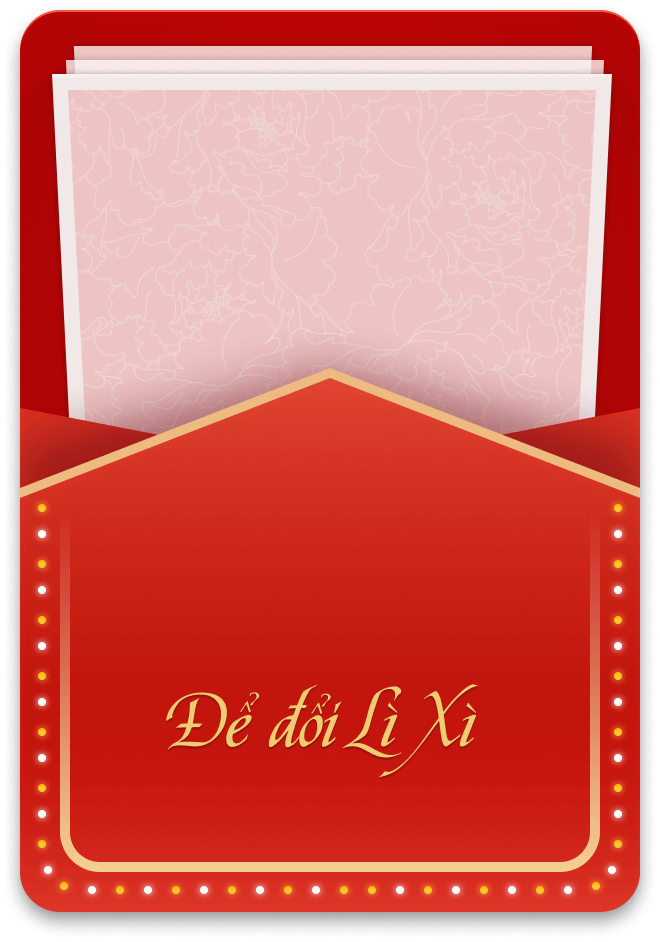
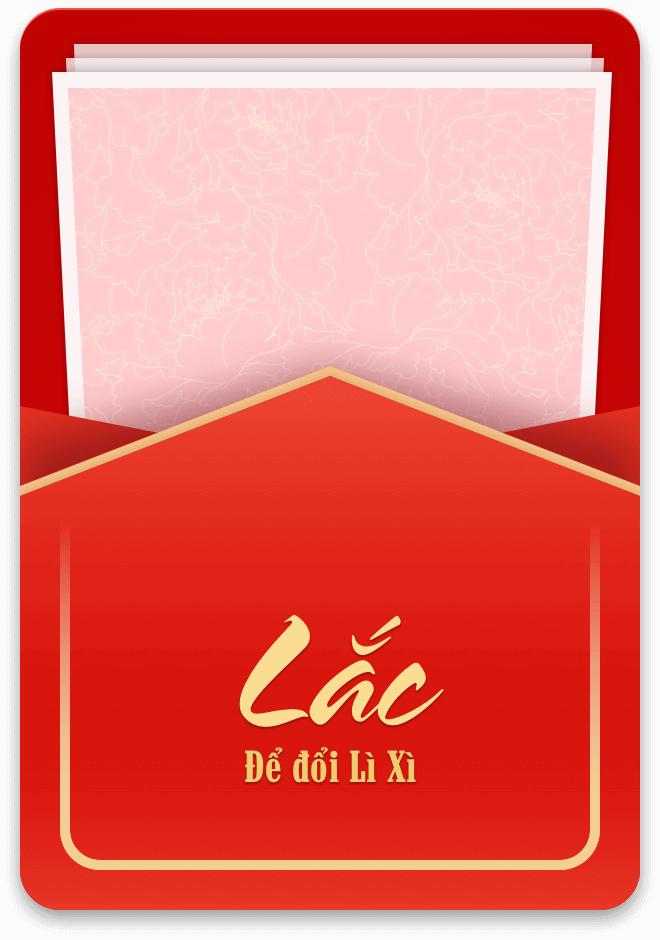
fix img

diff --git a/src/lixi.js b/src/lixi.js
@@ -44,12 +44,13 @@ class App extends Component {
                 <div className="bg fixed"></div>
 
                 <div className="hoatop fixed shake">
-                    <OwlCarousel options={options}>
+                    <div> <img  src={require('./image/hoamai.png')} /></div>
+                    {/* <OwlCarousel options={options}>
                         <div> <img  src={require('./image/hoamai.png')} /></div>
                         <div> <img  src={require('./image/hoadao.png')} /></div>
                         <div> <img  src={require('./image/hoamai.png')} /></div>
                         <div> <img  src={require('./image/hoadao.png')} /></div>
-                    </OwlCarousel>
+                    </OwlCarousel> */}
                 </div>
 
                 <div className="canhhoa fixed">
@@ -57,39 +58,39 @@ class App extends Component {
                         <div>
                             <div className="snowflakes">
                                 <div className="snowflake">
-                                    <div> <img  src={require('./image/hoadao1.png')} /></div>
+                                    <div> <img  src={require('./image/hoamai1.png')} /></div>
                                 </div>
                                 <div className="snowflake">
-                                    <div> <img  src={require('./image/hoadao2.png')} /></div>
+                                    <div> <img  src={require('./image/hoamai1.png')} /></div>
                                 </div>
                                 <div className="snowflake">
-                                    <div> <img  src={require('./image/hoadao3.png')} /></div>
+                                    <div> <img  src={require('./image/hoamai1.png')} /></div>
                                 </div>
                                 <div className="snowflake">
-                                    <div> <img  src={require('./image/hoadao1.png')} /></div>
+                                    <div> <img  src={require('./image/hoamai1.png')} /></div>
                                 </div>
                                 <div className="snowflake">
-                                    <div> <img  src={require('./image/hoadao2.png')} /></div>
+                                    <div> <img  src={require('./image/hoamai1.png')} /></div>
                                 </div>
                                 <div className="snowflake">
-                                    <div> <img  src={require('./image/hoadao3.png')} /></div>
+                                    <div> <img  src={require('./image/hoamai1.png')} /></div>
                                 </div>
                                 <div className="snowflake">
-                                    <div> <img  src={require('./image/hoadao1.png')} /></div>
+                                    <div> <img  src={require('./image/hoamai1.png')} /></div>
                                 </div>
                                 <div className="snowflake">
-                                    <div> <img  src={require('./image/hoadao2.png')} /></div>
+                                    <div> <img  src={require('./image/hoamai1.png')} /></div>
                                 </div>
                                 <div className="snowflake">
-                                    <div> <img  src={require('./image/hoadao3.png')} /></div>
+                                    <div> <img  src={require('./image/hoamai1.png')} /></div>
                                 </div>
                                 <div className="snowflake">
-                                    <div> <img  src={require('./image/hoadao1.png')} /></div>
+                                    <div> <img  src={require('./image/hoamai1.png')} /></div>
                                 </div>
                             </div>
                         </div>
 
-                        <div>
+                        {/* <div>
                             <div className="snowflakes">
                                 <div className="snowflake">
                                     <div> <img  src={require('./image/hoadao1.png')} /></div>
@@ -122,7 +123,7 @@ class App extends Component {
                                     <div> <img  src={require('./image/hoadao1.png')} /></div>
                                 </div>
                             </div>
-                        </div>
+                        </div> */}
 
                     </OwlCarousel>
                 </div>
@@ -172,17 +173,17 @@ class App extends Component {
                         <div className="txt_lixi">
                             <p className="fade">- Bạn nhận được lì xì -</p>
                             <p className="show fade in">
-                            TA79 vừa đổi Lì Xì với bạn <br/> và Lì Xì mới của bạn là
+                             Nguyễn Văn Hải vừa đổi Lì Xì 300.000đ lấy 200.000đ với bạn.<br/>Lì Xì mới của bạn là
                             </p>
                             <div className="menhgia_lixi">
-                                500.000đ
+                                5.500.000đ
                             </div>
                         </div>
                         <div className="btn_lac">
                             <img className="shake" src={require('./image/btn-lac.png')} />
-                            <div className="txt_lac">
+                            {/* <div className="txt_lac">
                                 <img  src={require('./image/txt-lac.png')} />
-                            </div>
+                            </div> */}
                         </div>
 
                         <div className="light-bot">

diff --git a/src/lixi.css b/src/lixi.css
@@ -11,7 +11,7 @@ body {
 }
 .bg:before {
     content: "";
-    background: url('./image/maskbg.png') repeat top left;
+    /* background: url('./image/maskbg.png') repeat top left; */
     position: absolute;
     top: 0;
     left: 0;
@@ -22,7 +22,9 @@ body {
     width: 100vw;
     height: 100vh;
     overflow: hidden;
-    background: url('./image/bg.jpg') repeat top left;
+    background: url('./image/bg_mobile.jpg') top center;
+    background-size: 100% 100%;
+    background-repeat: no-repeat;
 }
 img {
     max-width: 100%;
@@ -142,11 +144,11 @@ a {
     z-index: 4;
     width: 110%;
     left: -10px;
-    -webkit-animation: shake 5s linear infinite;
-    -moz-animation: shake 5s linear infinite;
-    -ms-animation: shake 5s linear infinite;
-    -o-animation: shake 5s linear infinite;
-    animation: shake 5s linear infinite;
+    -webkit-animation: shake 10s linear infinite;
+    -moz-animation: shake 10s linear infinite;
+    -ms-animation: shake 10s linear infinite;
+    -o-animation: shake 10s linear infinite;
+    animation: shake 10s linear infinite;
 }
 .footer {
     left: 0;
@@ -244,11 +246,14 @@ a {
 }
 .txt_lixi p.show {
     display: block;
+    margin: 0;;
+    padding: 10px 50px 10px 50px;
 }
 .menhgia_lixi {
+    font-weight: bold;
     font-weight: 900;
-    font-size: 40px;
-    line-height: 48px;
+    font-size: 34px;
+    line-height: 44px;
     text-align: center;
     letter-spacing: 0.563636px;
     color: #C00405;
@@ -311,7 +316,7 @@ a {
 }
 
 .snowflake img {
-    width: 32px !important;
+    width: 24px !important;
 }
 
 .canhhoa {
